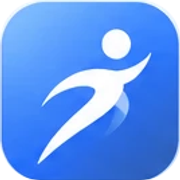
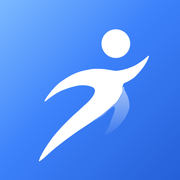
Appli installable sur l'écran d'accueil (iPhone et Android), en attendant les stores
- app/manifest.ts : fiche de l'appli (nom, icône, plein écran, ouverture sur /apres-connexion)
- vraie icône EasyPhysio (192/512 + icône iPhone sans coins dessinés)
- /patient/appli : sans lien App Store / Google Play, montre les gestes pour
  ajouter EasyPhysio à l'écran d'accueil (bouton « Installer » sur Android quand
  Chrome le propose) ; FR/EN

diff --git a/components/InstallAppGuide.tsx b/components/InstallAppGuide.tsx
@@ -1,0 +1,104 @@
+"use client";
+
+import { useEffect, useState } from "react";
+import Link from "next/link";
+import { useRouter } from "next/navigation";
+import { useTranslations } from "next-intl";
+import { EllipsisVertical, Share, SquarePlus, Smartphone } from "lucide-react";
+
+// Ajouter EasyPhysio à l'écran d'accueil du téléphone (Philippe, 2026-11-16),
+// en attendant les applis App Store / Google Play : le site (app/manifest.ts)
+// s'ouvre alors comme une appli, en plein écran, avec son icône.
+// - iPhone : aucune installation automatique possible, on montre les gestes
+//   (Partager → « Sur l'écran d'accueil » → Ajouter).
+// - Android (Chrome) : le navigateur propose son bouton « Installer » quand il
+//   le peut (évènement beforeinstallprompt) ; sinon, les gestes via le menu ⋮.
+// - Déjà ouvert depuis l'écran d'accueil : rien à faire, direction le programme.
+
+type InstallPromptEvent = Event & { prompt: () => Promise<void>; userChoice: Promise<{ outcome: string }> };
+
+export default function InstallAppGuide({ phone }: { phone: "ios" | "android" }) {
+  const t = useTranslations("patient.appli");
+  const router = useRouter();
+  const [installEvent, setInstallEvent] = useState<InstallPromptEvent | null>(null);
+
+  useEffect(() => {
+    const standalone =
+      window.matchMedia("(display-mode: standalone)").matches ||
+      (navigator as Navigator & { standalone?: boolean }).standalone === true;
+    if (standalone) {
+      router.replace("/patient");
+      return;
+    }
+    const onPrompt = (e: Event) => {
+      e.preventDefault();
+      setInstallEvent(e as InstallPromptEvent);
+    };
+    const onInstalled = () => router.replace("/patient");
+    window.addEventListener("beforeinstallprompt", onPrompt);
+    window.addEventListener("appinstalled", onInstalled);
+    return () => {
+      window.removeEventListener("beforeinstallprompt", onPrompt);
+      window.removeEventListener("appinstalled", onInstalled);
+    };
+  }, [router]);
+
+  const steps =
+    phone === "ios"
+      ? [
+          { icon: Share, text: t("iosStep1") },
+          { icon: SquarePlus, text: t("iosStep2") },
+          { icon: null, text: t("iosStep3") },
+        ]
+      : [
+          { icon: EllipsisVertical, text: t("androidStep1") },
+          { icon: SquarePlus, text: t("androidStep2") },
+        ];
+
+  return (
+    <main className="flex min-h-dvh items-center justify-center bg-app-bg p-6 max-sm:min-h-[calc(100dvh-var(--phone-chrome))]">
+      <div className="w-full max-w-sm rounded-2xl bg-surface p-6 shadow-soft">
+        <span className="mx-auto flex h-12 w-12 items-center justify-center rounded-full bg-brand-soft text-brand">
+          <Smartphone className="h-6 w-6" strokeWidth={1.75} />
+        </span>
+        <h1 className="mt-4 text-center text-xl font-semibold text-ink">{t("title")}</h1>
+        <p className="mt-2 text-center text-sm text-muted">{t("installText")}</p>
+
+        {installEvent ? (
+          <button
+            type="button"
+            onClick={async () => {
+              await installEvent.prompt();
+              setInstallEvent(null);
+            }}
+            className="mt-5 w-full rounded-full bg-ink px-4 py-2.5 text-sm font-semibold text-white hover:opacity-90"
+          >
+            {t("installButton")}
+          </button>
+        ) : (
+          <ol className="mt-5 space-y-3">
+            {steps.map((s, i) => (
+              <li key={i} className="flex items-start gap-3 text-sm text-ink">
+                <span className="flex h-6 w-6 shrink-0 items-center justify-center rounded-full bg-brand-soft text-xs font-semibold text-brand">
+                  {i + 1}
+                </span>
+                <span className="pt-0.5">
+                  {s.text}
+                  {s.icon && <s.icon className="ml-1.5 inline h-4 w-4 align-[-3px] text-brand" strokeWidth={2} aria-hidden />}
+                </span>
+              </li>
+            ))}
+          </ol>
+        )}
+
+        <p className="mt-4 text-center text-xs text-muted">{t("installAfter")}</p>
+        <Link
+          href="/patient"
+          className="mt-5 block rounded-full border border-line px-4 py-2.5 text-center text-sm font-medium text-ink hover:bg-app-bg"
+        >
+          {t("continueBrowser")}
+        </Link>
+      </div>
+    </main>
+  );
+}

diff --git a/app/patient/appli/page.tsx b/app/patient/appli/page.tsx
@@ -5,6 +5,7 @@ import { Smartphone } from "lucide-react";
 import { nativeAppPlatform } from "@/lib/app/nativeAppServer";
 import { getTranslations } from "next-intl/server";
 import { phoneFromUserAgent, storeLinks } from "@/lib/app/storeLinks";
+import InstallAppGuide from "@/components/InstallAppGuide";
 
 export async function generateMetadata() {
   const t = await getTranslations("patient.appli");
@@ -14,14 +15,16 @@ export async function generateMetadata() {
 // Dernier écran de l'inscription sur le site (après le profil) : propose
 // l'appli. Inscription et paiement se font sur le site, jamais dans l'appli
 // (règles d'Apple) ; ensuite le patient s'y connecte avec le même compte.
-// Sans adresse de magasin (lib/app/storeLinks.ts), ou déjà dans l'appli :
-// directement le programme.
+// Sur un téléphone sans appli dans son magasin (lib/app/storeLinks.ts) : les
+// gestes pour ajouter le site à l'écran d'accueil (InstallAppGuide, 2026-11-16).
+// Sur ordinateur sans magasin, ou déjà dans l'appli : directement le programme.
 export default async function PatientAppPage() {
   if (await nativeAppPlatform()) redirect("/patient");
   const links = storeLinks();
+  const phone = phoneFromUserAgent((await headers()).get("user-agent"));
+  if (phone && !links[phone]) return <InstallAppGuide phone={phone} />;
   if (!links.ios && !links.android) redirect("/patient");
 
-  const phone = phoneFromUserAgent((await headers()).get("user-agent"));
   const showIos = links.ios && phone !== "android";
   const showAndroid = links.android && phone !== "ios";
   if (!showIos && !showAndroid) redirect("/patient");

diff --git a/app/manifest.ts b/app/manifest.ts
@@ -1,0 +1,29 @@
+import type { MetadataRoute } from "next";
+
+// Fiche « appli » du site (Philippe, 2026-11-16) : c'est elle que lit le
+// téléphone quand on ajoute EasyPhysio à l'écran d'accueil (iPhone : Partager →
+// « Sur l'écran d'accueil » ; Android : « Installer l'appli »). Le site s'ouvre
+// alors en plein écran, sans barre d'adresse, avec l'icône EasyPhysio — en
+// attendant les applis App Store / Google Play (voir /patient/appli).
+// start_url : la page qui envoie chacun vers son espace (kiné ou patient), ou
+// vers la connexion s'il n'est pas connecté dans l'appli installée.
+export default function manifest(): MetadataRoute.Manifest {
+  return {
+    id: "/",
+    name: "EasyPhysio",
+    short_name: "EasyPhysio",
+    description: "Votre programme d'exercices, les messages de votre kiné et votre suivi.",
+    lang: "fr",
+    start_url: "/apres-connexion",
+    scope: "/",
+    display: "standalone",
+    orientation: "portrait",
+    background_color: "#f5f7fb",
+    theme_color: "#f5f7fb",
+    icons: [
+      { src: "/app-icons/icon-192.png", sizes: "192x192", type: "image/png", purpose: "any" },
+      { src: "/app-icons/icon-512.png", sizes: "512x512", type: "image/png", purpose: "any" },
+      { src: "/app-icons/icon-512.png", sizes: "512x512", type: "image/png", purpose: "maskable" },
+    ],
+  };
+}

diff --git a/app/layout.tsx b/app/layout.tsx
@@ -65,6 +65,9 @@ export async function generateMetadata(): Promise<Metadata> {
       description,
     },
     ...(iosAppId ? { itunes: { appId: iosAppId } } : {}),
+    // Site ajouté à l'écran d'accueil de l'iPhone (app/manifest.ts) : s'ouvre
+    // en plein écran sous le nom « EasyPhysio », barre d'état claire.
+    appleWebApp: { capable: true, title: siteConfig.name, statusBarStyle: "default" },
   };
 }
 
@@ -75,6 +78,7 @@ export const viewport: Viewport = {
   width: "device-width",
   initialScale: 1,
   viewportFit: "cover",
+  themeColor: "#f5f7fb",
 };
 
 export default async function RootLayout({
